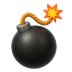
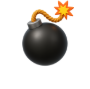
Added some components & styles.

diff --git a/src/constants/fields.js b/src/constants/fields.js
@@ -18,7 +18,7 @@ import stopBG from "../assets/fields/05stoplight.png";
 const fields = [
   {
     id: 1,
-    label: "Cash",
+    label: "cash",
     wbp: cashWBP,
     png: cashPNG,
     bg: cashBG,
@@ -28,7 +28,7 @@ const fields = [
   },
   {
     id: 2,
-    label: "Cash",
+    label: "cash",
     wbp: cashWBP,
     png: cashPNG,
     bg: cashBG,
@@ -38,7 +38,7 @@ const fields = [
   },
   {
     id: 3,
-    label: "Cash",
+    label: "cash",
     wbp: cashWBP,
     png: cashPNG,
     bg: cashBG,
@@ -48,7 +48,7 @@ const fields = [
   },
   {
     id: 4,
-    label: "Cash",
+    label: "cash",
     wbp: cashWBP,
     png: cashPNG,
     bg: cashBG,
@@ -58,7 +58,7 @@ const fields = [
   },
   {
     id: 5,
-    label: "Cash",
+    label: "cash",
     wbp: cashWBP,
     png: cashPNG,
     bg: cashBG,
@@ -68,7 +68,7 @@ const fields = [
   },
   {
     id: 6,
-    label: "Double",
+    label: "double",
     wbp: x2WBP,
     png: x2PNG,
     bg: x2BG,
@@ -78,7 +78,7 @@ const fields = [
   },
   {
     id: 7,
-    label: "Zero",
+    label: "zero",
     wbp: zeroWBP,
     png: zeroPNG,
     bg: zeroBG,
@@ -87,16 +87,16 @@ const fields = [
   },
   {
     id: 8,
-    label: "Bomb",
+    label: "bomb",
     wbp: bombWBP,
     png: bombPNG,
     bg: bombBG,
-    width: 72,
-    height: 72,
+    width: 88,
+    height: 88,
   },
   {
     id: 9,
-    label: "Stop",
+    label: "stop",
     wbp: stopWBP,
     png: stopPNG,
     bg: stopBG,

diff --git a/src/components/Field/Field.jsx b/src/components/Field/Field.jsx
@@ -21,15 +21,17 @@ const Field = () => {
           <li key={field.id} className={styles.item}>
             {isOpen ? (
               <div
-                style={{
-                  backgroundImage: `url(${field.bg})`,
-                  backgroundPosition: `${
-                    field.label === "Cash" ? "center 100%" : "center"
-                  }`,
-                  backgroundSize: "185% auto",
-                  backgroundRepeat: "no-repeat",
-                }}
-                className={`${styles.front} ${styles.back}`}
+                // style={{
+                //   backgroundImage: `url(${field.bg}) ${field.bg2 && url()}`,
+                //   backgroundPosition: `${
+                //     field.label === "Cash" ? "center 100%" : "center"
+                //   }`,
+                //   backgroundSize: "185% auto",
+                //   backgroundRepeat: "no-repeat",
+                // }}
+                className={`${styles.front} ${styles.back} ${
+                  styles[field.label]
+                }`}
               >
                 <Image image={field} />
                 {field.amount && (

diff --git a/src/components/Field/styles.module.css b/src/components/Field/styles.module.css
@@ -51,6 +51,42 @@
   color: rgba(255, 255, 255, 1);
 }
 
+.cash {
+  background-image: url(/bgfields/01cashlight.png);
+  background-position: center 100%;
+  background-size: 185% auto;
+  background-repeat: no-repeat;
+}
+
+.double {
+  background-image: url(/bgfields/02x2konfetti.png),
+    url(/bgfields/02x2light.png);
+  background-position: center, center;
+  background-size: 171% auto, 185% auto;
+  background-repeat: no-repeat, no-repeat;
+}
+
+.zero {
+  background-image: url(/bgfields/03zerolight.png);
+  background-position: center;
+  background-size: 185% auto;
+  background-repeat: no-repeat;
+}
+
+.bomb {
+  background-image: url(/bgfields/04bomblight.png);
+  background-position: center;
+  background-size: 185% auto;
+  background-repeat: no-repeat;
+}
+
+.stop {
+  background-image: url(/bgfields/05stoplight.png);
+  background-position: center;
+  background-size: 185% auto;
+  background-repeat: no-repeat;
+}
+
 .amount {
   text-transform: uppercase;
 }
